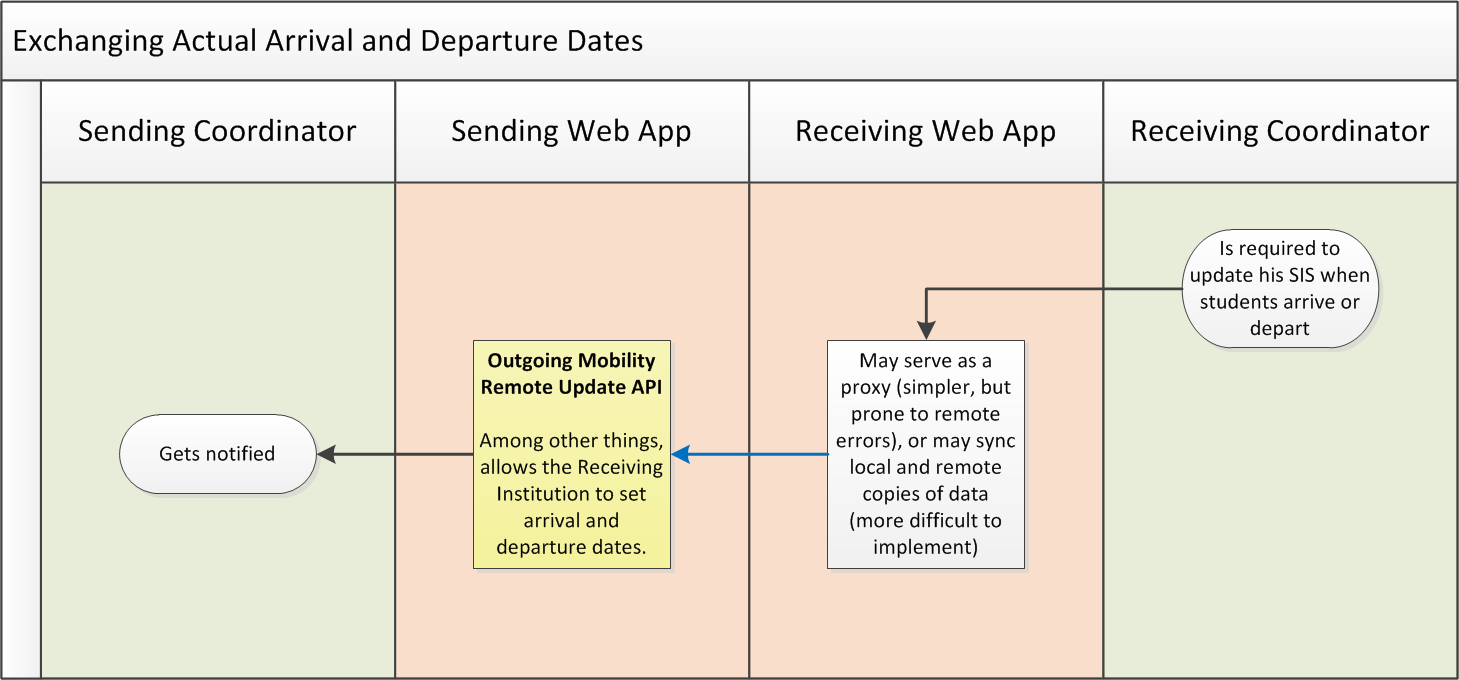
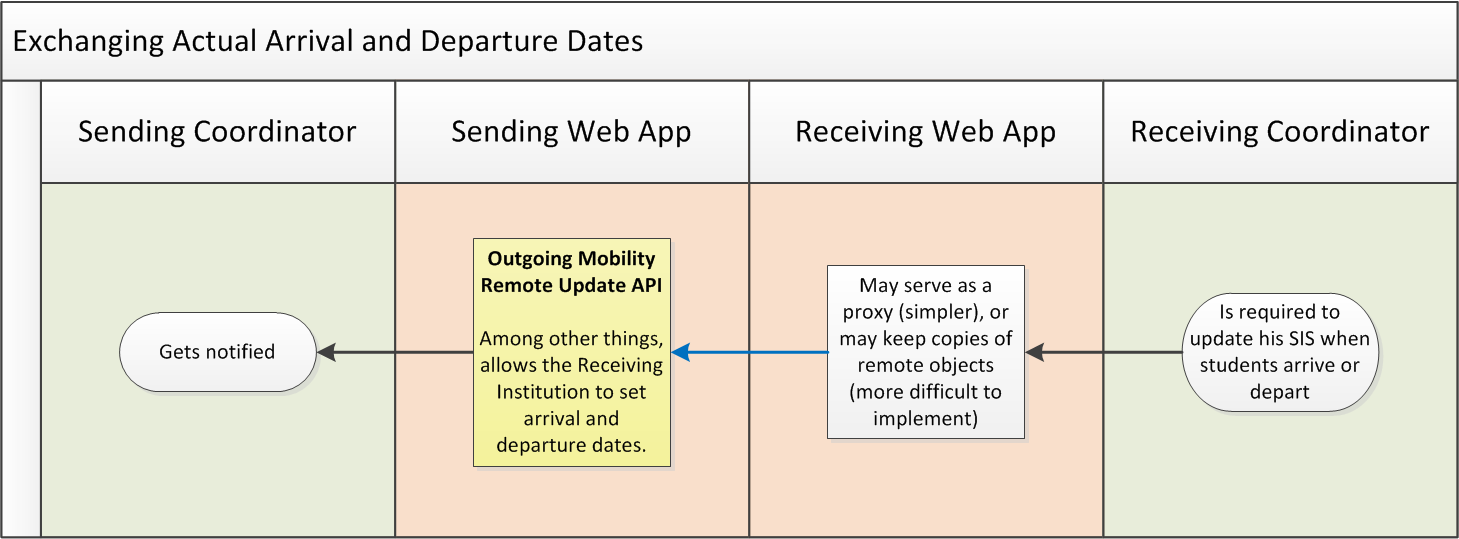
Other minor changes, especially in "Migrating from other workflows"

diff --git a/README.md b/README.md
@@ -163,33 +163,34 @@ order to support EWP mobility workflow:
  * **[Outgoing Mobility Search API][mobility-search-api]** - allows the
    receiving institution to access the list of Mobility objects related to the
    receiving institution. It also provides an alternative way of getting
-   updates if the sending institution fails to send updates to CNRs.
+   updates (compared to CNR APIs).
 
- * **[Outgoing Mobility Remote Update API][mobility-update-api]** - implemented
-   by the *sending* institution, allows the receiving institution to update
-   some properties of the *Outgoing Mobility* object.
+ * **[Outgoing Mobility Remote Update API][mobility-update-api]** - allows the
+   receiving institution to update some properties of the *Outgoing Mobility*
+   object.
 
-   Note, that since the sending institution is the master of the Mobility
-   object, then no change on it can be performed if the master doesn't allow
-   for this change. This also means that no changes can be performed when the
-   *Sending Web App* is unavailable for some reason. If implementers of the
-   *Receiving Web App* want to allow their users to update things while the
-   remote server is offline, then they might be required to implement a daemon
-   (similar to the [Notification Sender daemon][notification-senders] described
-   earlier).
+   Note, that since the sending institution is the "master" of the Mobility
+   object, then no change on this object can be performed if the master doesn't
+   previously allow for this change. This also means that no changes can be
+   performed when the *Sending Web App* is unavailable for some reason. If
+   implementers of the *Receiving Web App* want to allow their users to update
+   things while the remote server is offline, then they might be required to
+   implement a daemon (similar to the [Notification Sender daemon]
+   [notification-senders] described earlier).
 
 Other related APIs and formats:
 
  * **[Outgoing Mobility CNR API][mobility-cnr-api]** - implemented by the
    *receiving* institution, allows it to receive live updates when the entity
-   is changed (provided that the *sending* institution can send such updates).
+   is changed (provided that the *sending* institution is willing to send such
+   updates).
 
  * **[`.ewpmobility` Exchange File][ewpmobility-file]** - this is not a web
    service. It's a file format, which can be exchanged by other means (such
    as email). It establishes a common format for exchanging mobility data, in a
    form strictly compatible with EWP Outgoing Mobility objects. Can be useful
    when moving mobility data from one institution to another (e.g. when
-   migrating `R-MASTER`-based workflows to EWP workflow).
+   migrating from other workflows to the EWP workflow).
 
 
 <a name='mobility_ids'></a>
@@ -208,8 +209,8 @@ order to guarantee this, we need to impose some requirements.
    sensitive, no dashes).
 
  * When generating new identifiers, implementers MUST use proper entropy to
-   guarantee its uniqueness. The sending institution's SCHAC ID SHOULD be part
-   of this entropy.
+   guarantee its uniqueness. The sending institution's SCHAC ID SHOULD be a
+   part of this entropy.
 
    You can achieve this effect in various ways, for example:
 
@@ -236,7 +237,7 @@ Mobility object. By reviewing this object's history (which is incorporated in
 the Outgoing Mobility object itself) you get to know when nominations are
 created, accepted or rejected. The receiving institution is notified about
 creation of new objects and all updates to the existing ones (via the CNR API
-we have described earlier).
+we have briefly described earlier).
 
 The following flowchart illustrates how nomination process works in EWPs
 workflow (this is the workflow we require every member to support):
@@ -249,10 +250,10 @@ Preparing Learning Agreements
 
 After nominations are accepted, students prepare their Learning Agreements
 (LAs). It might seem as a completely separate process from the user's
-perspective but internally, adding new courses to the Learning Agreement is
+perspective, but internally, adding new courses to the Learning Agreement is
 implemented the same way as accepting and rejecting nominations is - by adding
-new history entries to the same Outgoing Mobility object (and by using the same
-APIs).
+new timeline entries to the same Outgoing Mobility object (with help of the
+same APIs).
 
 *Sidenote: Remember, that servers are allowed to implement a subset of mobility
 history entries. Information on the implemented features is published via the
@@ -302,8 +303,8 @@ At some point, the student wants his LA to be approved. To do so, he first
 approves it himself, then waits for other actors to approve it. As with the
 editing, the approval process can also be started by other actors (e.g. the
 receiving coordinator). Regardless of who starts the process, the LA is
-approved when three "approved" entries are recorded in a row. At this moment LA
-gets "approved by all parties".
+approved when a single revision of the LA gets all the "approved" timeline
+entries. At this moment LA gets "approved by all parties".
 
 Learning Agreements can still be edited after they are approved. Then, they can
 be approved again. Each such change is recorded, and all actors can review each
@@ -319,7 +320,7 @@ Exchanging Arrival and Departure dates
 --------------------------------------
 
 After the mobility ends, the *sending* institution usually needs to know the
-exact dates on which the student has arrived to and departed from the
+exact dates on which the student has arrived to - and departed from - the
 receiving institution (this is related to the final value of the stipend
 provided for the student). The *receiving* coordinator is required to provide
 this data.
@@ -339,19 +340,18 @@ Currently:
  * EWP allows for ToRs to be transferred from the receiving institution to the
    sending institution. This is usually done after the mobility ends.
 
- * EWP does not specify any means to transfer ToRs the other way around (from
-   the sending institution to the receiving). We will [revisit this subject]
+ * EWP [does not specify]
    (https://github.com/erasmus-without-paper/ewp-specs-mobility-flowcharts/issues/2)
-   however, if it turns out that many partners would like to make use of it.
-
-We will focus on the first of these two for the rest of this chapter.
+   any means to transfer ToRs the other way around (from the sending
+   institution to the receiving one).
 
 We have decided to *not* make ToRs part of the Outgoing Mobility object, but
 they are still tightly connected (for example, we encourage all editors to try
 to enter all proper course identifiers in Learning Agreement so that they match
 with course identifiers encountered in the Transcript of Records).
 
-The exchange of the Transcripts of Records can be initiated in multiple ways:
+The exchange of the Transcripts of Records can be initiated in a variety of
+ways (it is RECOMMENDED to support all of these):
 
  * By the student, who should be allowed to click a button in his Sending Web
    App, which in turn would refresh the Transcript of Records. The student
@@ -378,40 +378,41 @@ The following flowchart presents all of the scenarios:
 
 ![Exchanging Transcripts of Records (ToRs)](flowcharts/exchanging-tors.png)
 
-
-Recognition
------------
-
-The exact workflow of the recognition process is not in scope of EWP. However,
-it's worth noting that the Outgoing Mobility object provides some basic
-information on this topic too.
-
-Please review the [Outgoing Mobilities API specification][mobilities-api] for
-details.
+It's worth noting that the exact workflow of the **recognition process** is not
+in scope of EWP. However, the Outgoing Mobility object provides some basic
+information on this topic too. Please review the [Outgoing Mobilities API
+specification][mobilities-api] for details.
 
 
 <a name="common-workflow"></a>
 
-Workflow in general
--------------------
+Migrating from other workflows
+------------------------------
 
-All mobility-related features in EWP use a common set of APIs, and have a
-similar workflow. This chapter introduces some basic concepts, which we will
-later apply to specific use cases.
+As you can see after reading the sections above, all mobility-related features
+in EWP use a common set of APIs, and have a similar workflow. This chapter
+discusses the reasons we have picked such a workflow, and compares it to
+**other workflows** you might be more familiar with.
 
 
-### `S-MASTER` vs. `R-MASTER`
+### `S-MASTER` and `R-MASTER` approaches
 
-There are two basic mobility workflows in use in computer systems today. Some
+There found two basic mobility workflows in use in computer systems today. Some
 readers may find EWP's workflow quite natural, while others may say it's
-"turned upside down". This is caused by the fact that - at the time of writing
-this - half of Europe is using one approach, while the other half uses the
-other.
+"turned upside down". This is caused by the fact that at the time of writing
+this half of Europe seems to be using one approach, while the other half uses
+the other.
 
- * First approach (let's call it `S-MASTER`), and the one we will use in EWP,
+The **S-MASTER and R-MASTER definitions** introduced here are not "official" in
+any way. **We made them up.** We simply wanted to have some kind of a label for
+them to refer to. (If you want to reuse these terms somewhere else, then you
+can use [this permalink][sr-master-definitions] to refer others here.)
+
+ * First approach, and the one we will use in EWP (let's call it `S-MASTER`),
    is that the mobility history is **stored on the sending institution's
    servers**, and it is created and updated primarily by the sending
-   institution. Such mobility history always describes an "outgoing mobility".
+   institution (hence the "S" in the code-name). Such mobility history always
+   describes an "outgoing mobility".
 
    Receiving institution may keep its own copy of the Mobility object, and it
    is allowed to update parts of it, but all such updates are indirect (the
@@ -420,12 +421,13 @@ other.
 
  * Second approach (`R-MASTER`) is that the mobility history is **stored on the
    receiving institution's servers**. You might say that in this case the
-   mobility history describes an "incoming mobility".
+   mobility history describes an "incoming mobility" (as opposed to "outgoing"
+   one).
 
    Coordinators from the sending institution are allowed to sign into the
    receiving institution's system and then they can create and update the
-   Mobility object. Receiving institution is the "master" of the data, and it
-   is the sending institution that has to ask to make a change.
+   mobility data. Receiving institution is the "master" of the data, and it
+   is the sending institution that has to "ask" to make a change.
 
 It's also worth noting that:
 
@@ -440,17 +442,17 @@ It's also worth noting that:
    approach (in which every change would be asynchronously propagated and
    all conflicts were automatically resolved).
 
-It's important to note that both `S-MASTER` and `R-MASTER` approaches offer
-exactly the same functionality. The only *functional difference* between them
-is the problem of authority ("who has the final say?").
+Both `S-MASTER` and `R-MASTER` approaches offer exactly the same functionality.
+The only **functional difference** between them is the problem of authority
+("who has the final say?").
 
-Unfortunately, the *technical differences* are bigger, and these are important
-for us, developers. It *is* feasible to work with multiple approaches
+Unfortunately, the **technical differences** are bigger, and these are
+important for us, developers. It *is* feasible to work with multiple approaches
 simultaneously (and some of the readers probably already do), but is NOT
 feasible to use two approaches for processing a *single* property of a *single*
 Mobility object - that would require us to implement a multi-master approach,
-and we have [decided](https://github.com/erasmus-without-paper/general-issues/issues/9)
-against it. Therefore, for each single mobility, we should determine which
+and [we have decided](https://github.com/erasmus-without-paper/general-issues/issues/9)
+against it. Therefore, for each single mobility, we must determine which
 approach we will be using.
 
 
@@ -479,21 +481,24 @@ EWPs workflow, and here's some reasoning behind this decision:
 
  * `S-MASTER` seems to also be a slightly better choice from the *functional*
    point of view. As we said above, the only functional difference between the
-   two is the problem of authority. It seems that it is the *sending
+   two is the problem of authority. And it seems that it is the *sending
    institution* which should be "in charge" of the greater part of mobility's
-   properties (not necessarily all of them).
+   properties (though not necessarily all of them).
 
 
-### General guidelines on migrating from other workflows
+### General guidelines on migrating from `R-MASTER` workflows
 
 We recognize that many systems use other workflows than the one we chose for
 EWP, and probably *all* partners will need at least *some* changes in their
 workflows to support EWP. Having that in mind, we'll try to offer some basic
-guidelines on the migration process, wherever we think some guidelines might be
-needed.
+guidelines on the migration process (not only here, but throughout all API
+specifications).
 
-In general, most partners will need to support both workflows, at least for
-some time.
+In general, we believe that initially most partners will need to support both
+workflows for some time (their current one, and the new one, introduced by
+EWP). The choice on which of the workflows to use for particular mobility
+depends on the answer to the following question: **Does the partner institution
+(also) supports EWP workflow?**
 
 **If both HEIs support EWP workflow already:**
 
@@ -506,12 +511,8 @@ some time.
 
    * Once the new workflow between two HEIs is well adopted, you may decide to
      speed up the process and exchange all the mobilities between the two of
-     you [`.ewpmobility` Exchange File][ewpmobility-file] might be of use
+     you ([`.ewpmobility` Exchange File][ewpmobility-file] might be of use
      here).
-
-   * Once this is done, and all of your common mobilities are stored safely on
-     the sending institution's servers and accessible via EWP - you may remove
-     the sending coordinators' accounts from your Receiving Web App.
 
 **If the other HEI does not support EWP workflow yet:**
 
@@ -549,3 +550,4 @@ for example - stop allowing the creation of new nominations on your side.
 [tors-api]: https://github.com/erasmus-without-paper/ewp-specs-api-tors
 [courses-api]: https://github.com/erasmus-without-paper/ewp-specs-api-courses
 [course-search-api]: https://github.com/erasmus-without-paper/ewp-specs-api-course-search
+[sr-master-definitions]: https://github.com/erasmus-without-paper/ewp-specs-mobility-flowcharts#common-workflow
